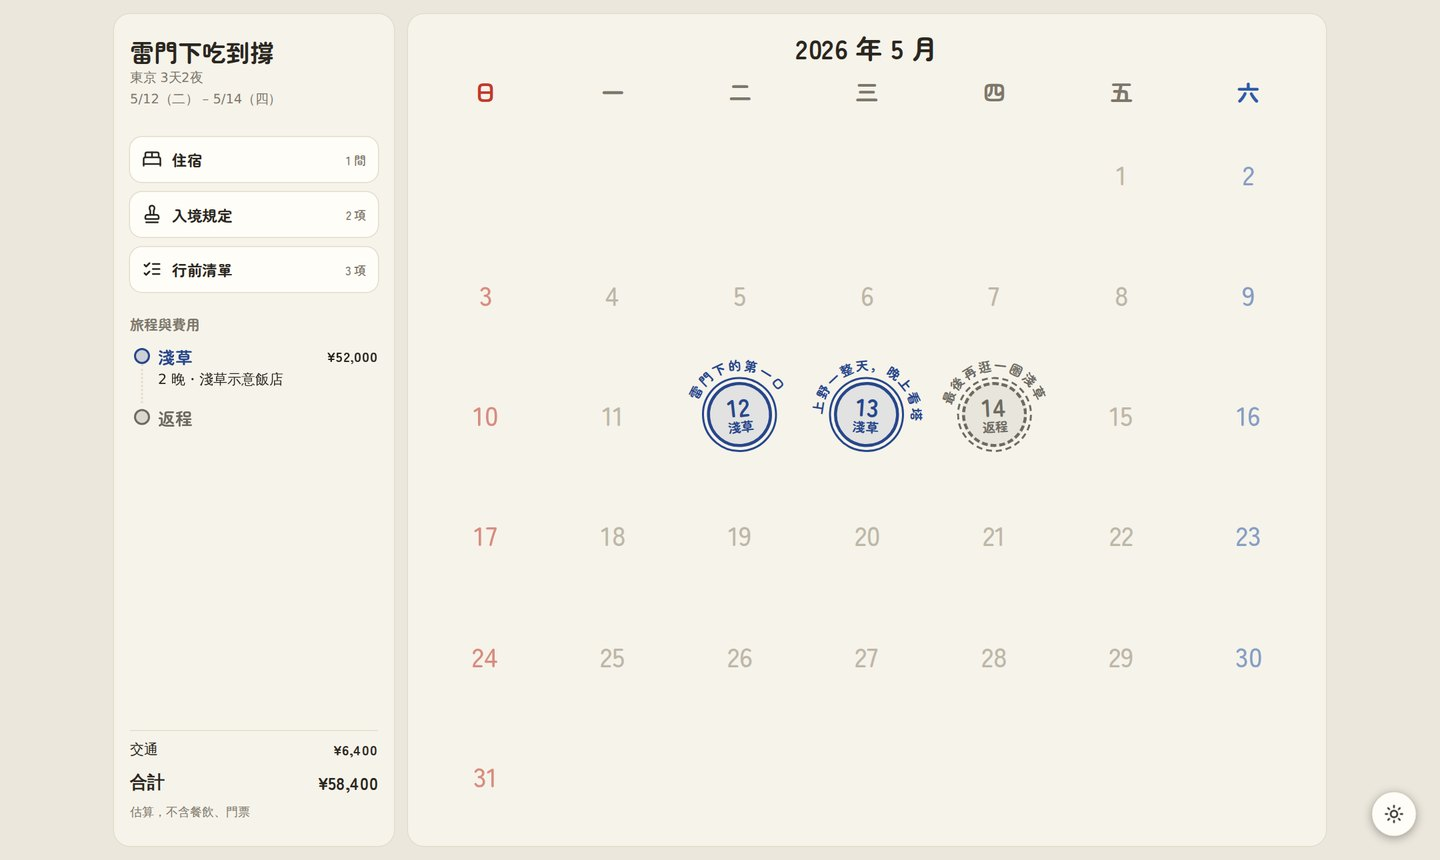
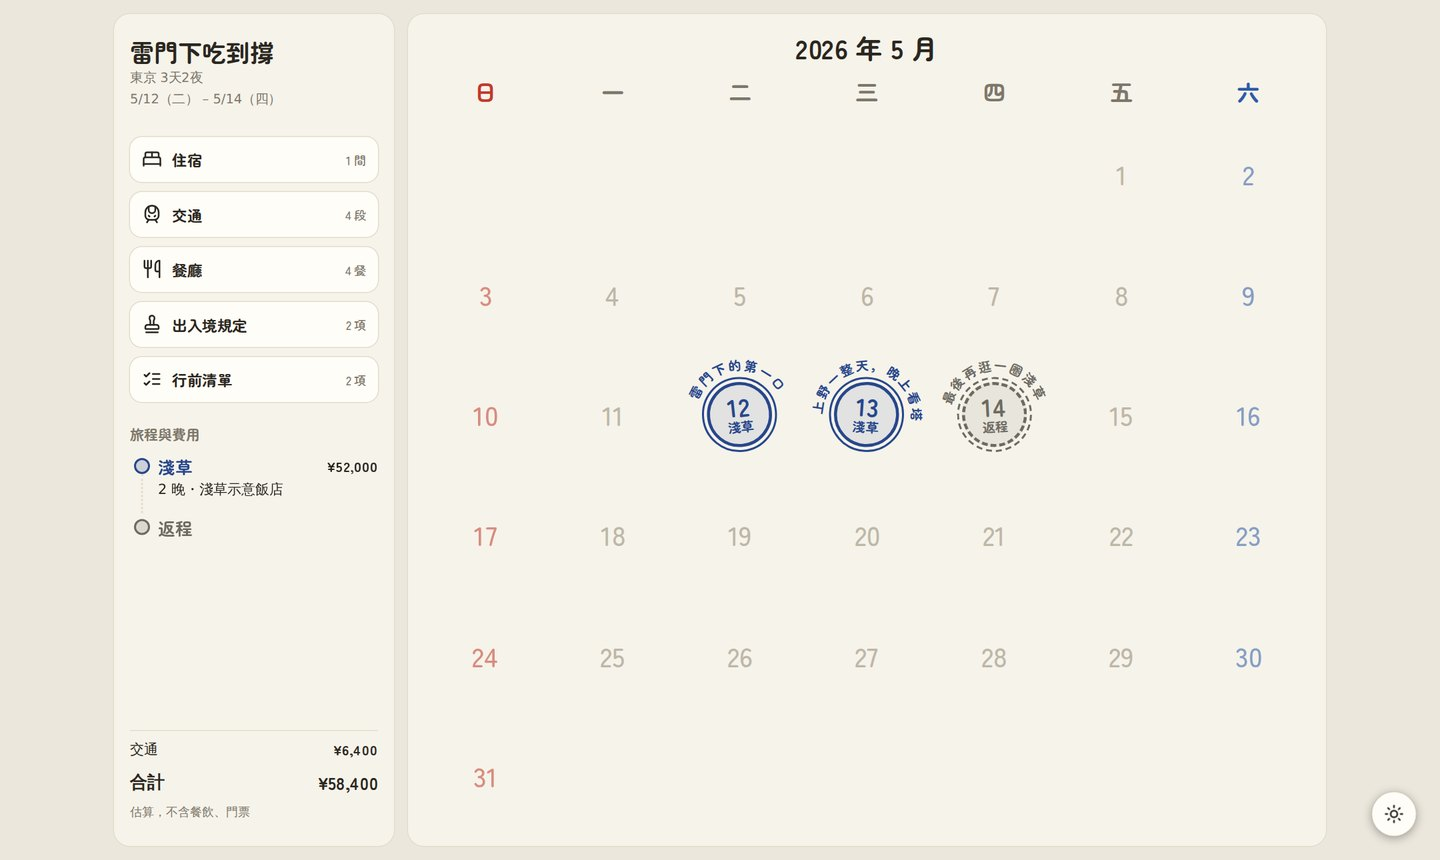
release(v3.1.0): reservation info
Claude-Session: https://claude.ai/code/session_018PWF1r5weoKGKuKETv3AUs

diff --git a/docs/images/readme/demo_trip.py b/docs/images/readme/demo_trip.py
@@ -60,6 +60,12 @@ POIS = [
     poi("skytree", "東京スカイツリー", "東京晴空塔", "sight", 35.7101, 139.8107,
         {"close": "22:00", "last_entry": "21:00", "typical_visit_mins": 90, "as_of": "2026-04-01"},
         "押上", intro="高 634 m，天望甲板 350 m。", address="東京都墨田区押上1-1-2"),
+    poi("izakaya", "浅草サンプル居酒屋", "淺草示意居酒屋", "food", 35.7125, 139.7960,
+        {"close": "23:00", "last_order": "22:30", "typical_visit_mins": 90, "as_of": "2026-04-01"},
+        "淺草", intro="示意的居酒屋：今晚自己找，這家只是推薦。"),
+    poi("kappo", "押上サンプル割烹", "押上示意割烹", "food", 35.7098, 139.8120,
+        {"close": "22:00", "last_order": "21:00", "typical_visit_mins": 90, "as_of": "2026-04-01"},
+        "押上", intro="示意的割烹：會席套餐，已訂位。"),
     poi("asakusa-tic", "浅草文化観光センター", "淺草文化觀光中心", "sight", 35.7107, 139.7966,
         {"close": "20:00", "last_entry": "19:45", "typical_visit_mins": 30, "as_of": "2026-04-01"},
         "淺草", intro="8 樓免費展望台，看得到晴空塔與仲見世。"),
@@ -91,13 +97,17 @@ def itinerary():
         {"date": "2026-05-12", "lodging": "demo-hotel", "theme": "雷門下的第一口", "theme_refs": ["senso-ji"],
          "theme_candidates": six(["雷門下的第一口", "燈籠在等，人形燒在燙", "淺草寺會不會太熱鬧？",
                                   "逛完本堂才想起要吃", "雷門、香爐、人形燒", "仲見世，在數我們的零錢"], "senso-ji"),
-         "rows": [_mv("rail", 20, 45, basis="sourced", text="京急線直通淺草線",
-                      source_url="https://rail.example/keikyu", **{"from": "羽田空港"}),
+         "rows": [dict(_mv("flight", 2190, 190, basis="sourced", text="示意航空 SA 101",
+                           source_url="https://air.example/sa101"), leg_index=0, time="08:50"),
+                  _mv("rail", 20, 45, basis="sourced", text="京急線直通淺草線",
+                      source_url="https://rail.example/keikyu", **{"from": "羽田空港", "to": "淺草"}),
                   {"slot": "lodging", "time": "13:30", "poi_id": "demo-hotel", "text": "放行李"},
                   _mv("walk", 0.5, 8),
                   _stop("visit", "14:00", "senso-ji", "雷門 → 本堂，抽一支籤"),
                   _mv("walk", 0.4, 6),
                   _stop("meal", "15:30", "nakamise", "人形燒、炸饅頭當下午茶"),
+                  _mv("walk", 0.3, 5),
+                  _stop("meal", "18:30", "izakaya", "居酒屋晚餐"),
                   _mv("walk", 0.3, 5, text="走回飯店")]},
         {"date": "2026-05-13", "lodging": "demo-hotel", "theme": "上野一整天，晚上看塔",
          "theme_refs": ["tnm", "skytree"],
@@ -113,6 +123,8 @@ def itinerary():
                   _stop("meal", "13:00", "ameyoko", "海鮮丼午餐"),
                   _mv("rail", 6, 25, basis="sourced", text="銀座線＋淺草線到押上", source_url="https://rail.example/oshiage"),
                   _stop("visit", "17:00", "skytree", "看夕陽轉夜景"),
+                  _mv("walk", 0.4, 6),
+                  _stop("meal", "19:00", "kappo", "會席晚餐"),
                   _mv("taxi", 2.5, 10, text="計程車回飯店")]},
         {"date": "2026-05-14", "theme": "最後再逛一圈淺草", "theme_refs": ["nakamise"],
          "theme_candidates": six(["最後再逛一圈淺草", "早上的門，最後的燒", "人形燒還買得下嗎？",
@@ -120,18 +132,53 @@ def itinerary():
          "rows": [_mv("walk", 0.3, 5),
                   _stop("meal", "09:30", "nakamise", "早上的仲見世，買伴手禮"),
                   _mv("rail", 20, 45, basis="sourced", text="淺草線直通京急線",
-                      source_url="https://rail.example/keikyu", to="羽田空港")]},
+                      source_url="https://rail.example/keikyu", **{"from": "淺草", "to": "羽田空港"}),
+                  dict(_mv("flight", 2190, 170, basis="sourced", text="示意航空 SA 102",
+                           source_url="https://air.example/sa102"), leg_index=1, time="14:30")]},
     ]
     for d in days:
         _closing(d["rows"], by_id)
     checklist = [
-        {"kind": "預約", "task": "晴空塔線上預約時段票", "due": "2026-05-05", "due_is_hard": True,
+        {"kind": "預約", "task": "晴空塔線上預約時段票", "due": "2026-05-05", "due_is_hard": True, "poi_id": "skytree",
          "origin": "D2・5/13", "detail": "日落前後的時段最先賣完。",
          "links": [{"label": "tokyo-skytree.jp", "url": "https://www.tokyo-skytree.jp/"}]},
         {"kind": "出發前確認", "task": "確認東京國立博物館當天開館", "due": "出發前"},
         {"kind": "打包", "task": "不帶任何肉製品入境"},
     ]
     return {"title": "東京三天", "checklist": checklist, "days": days}
+
+
+# the two flights: home legs with local depart / arrive (made-up flight numbers)
+LEGS = {"legs": [
+    {"from": "桃園機場", "to": "羽田空港", "kind": "home", "mode": "flight", "status": "ok", "service": "示意航空 SA 101",
+     "depart": "08:50", "arrive": "13:00", "duration_mins": 190, "km": 2190,
+     "sources": [{"url": "https://air.example/sa101", "official": True}]},
+    {"from": "羽田空港", "to": "桃園機場", "kind": "home", "mode": "flight", "status": "ok", "service": "示意航空 SA 102",
+     "depart": "14:30", "arrive": "17:20", "duration_mins": 170, "km": 2190,
+     "sources": [{"url": "https://air.example/sa102", "official": True}]},
+]}
+
+# the traveller's bookings (made-up numbers): every renderer masks them
+RESERVATIONS = {"reservations": [
+    {"date": "2026-05-12", "from": "桃園機場", "to": "羽田空港", "status": "booked", "ref": "K7Q2PX",
+     "details": [{"label": "座位", "value": "32A・32B・32C"}, {"label": "行李", "value": "每人託運 23 kg"}]},
+    {"date": "2026-05-12", "from": "羽田空港", "to": "淺草", "status": "none",
+     "details": [{"label": "付款", "value": "刷 IC 卡，不用買票"}]},
+    {"date": "2026-05-12", "lodging": "demo-hotel", "status": "booked", "ref": "HB48213907",
+     "details": [{"label": "入住", "value": "15:00 起"}, {"label": "房型", "value": "三人房，含早餐"}]},
+    {"date": "2026-05-12", "poi_id": "nakamise", "time": "15:30", "status": "none"},
+    {"date": "2026-05-12", "poi_id": "izakaya", "status": "self",
+     "details": [{"label": "備註", "value": "這餐自己決定吃哪家，這家是推薦，換別家也可以"}]},
+    {"date": "2026-05-13", "poi_id": "ameyoko", "status": "none"},
+    {"date": "2026-05-13", "poi_id": "skytree", "status": "booked", "ref": "TK7730X1",
+     "details": [{"label": "時段", "value": "17:00 入場"}, {"label": "張數", "value": "3 張"}]},
+    {"date": "2026-05-13", "poi_id": "kappo", "status": "booked", "ref": "RSV-58213",
+     "details": [{"label": "人數", "value": "3 位"}, {"label": "套餐", "value": "會席套餐"},
+                 {"label": "取消", "value": "5/10 前免費取消"}]},
+    {"date": "2026-05-14", "from": "淺草", "to": "羽田空港", "status": "none"},
+    {"date": "2026-05-14", "from": "羽田空港", "to": "桃園機場", "status": "booked", "ref": "M3R8TZ",
+     "details": [{"label": "座位", "value": "41A・41B・41C"}]},
+]}
 
 
 def brief():
@@ -154,7 +201,7 @@ def render(root):
     t, w = M.build_full_trip(root, slug="2026-05-tokyo-demo")
     itin, b = itinerary(), brief()
     for name, doc in (("trip-brief.yaml", b), ("verified-pois.yaml", {"pois": POIS}),
-                      ("accommodations.yaml", ACC), ("legs.yaml", {"legs": []}),
+                      ("accommodations.yaml", ACC), ("legs.yaml", LEGS), ("reservations.yaml", RESERVATIONS),
                       ("itinerary.yaml", itin), ("cost.yaml", COST)):
         M.write_artifact(artifact_path(t, name), doc)
     maps = build(t, w)                                     # real OSM tiles, cached, 1 req/s
@@ -166,7 +213,7 @@ def render(root):
                      load_media(artifact_path(t, "verified-pois-media.yaml")))
     reader = root / "reader.html"
     reader.write_text(render_reader(itin, pm, brief=b, accommodations=ACC, advisory=R.ADVISORY,
-                                    legs={"legs": []}, maps=maps, cost=COST), encoding="utf-8")
+                                    legs=LEGS, maps=maps, cost=COST, reservations=RESERVATIONS), encoding="utf-8")
     picker = root / "picker.html"
     picker.write_text(picker_page(itin, b, ACC), encoding="utf-8")
     return reader, picker, lock(root, reader)

diff --git a/tests/test_e2e_reservations.py b/tests/test_e2e_reservations.py
@@ -1,0 +1,56 @@
+"""End-to-end closure for reservations (pre-ship gate step 7): one made-up trip with every
+kind of booking runs through the shipped gate, both renderers and both export gates, then a
+re-plan drops a booked dinner and the gate stops it -- with reservations.yaml untouched."""
+
+import yaml
+from bs4 import BeautifulSoup
+
+from scripts.export_gate import run_export_gate, run_html_gate
+from scripts.gate import run_gate
+from scripts.orchestration import route_gate_failures
+from scripts.render.html_page import render_html_page
+from scripts.render.markdown import render_markdown_page
+from tests import mech_fixtures as M
+from tests import reservation_fixture as F
+
+SKY = {"kind": "預約", "task": "晴空塔線上預約時段票", "due": "2026-05-05", "due_is_hard": True, "poi_id": "skytree"}
+
+
+def _trip():
+    itin = F.itinerary()
+    itin["checklist"] = [SKY]
+    return itin
+
+
+def test_every_defect_closes_on_one_trip():
+    itin, pm, legs, res = _trip(), F.poi_map(), F.legs(), F.reservations()
+    md = render_markdown_page(itin, pm, legs=legs, reservations=res)
+    html = render_html_page(itin, pm, legs=legs, reservations=res)
+    pois = list(pm.values())
+    assert run_export_gate(md, pois, min_days=3, reservations=res)["failures"] == []
+    assert run_html_gate(html, pois, min_days=3, reservations=res)["failures"] == []
+    s = BeautifulSoup(html, "html.parser")
+    assert [t["for"] for t in s.select("section.page.home label.tile")] == [
+        "pg-lodging", "pg-transport", "pg-meals", "pg-advisory", "pg-checklist"]
+    assert "••••PX" in s.select_one('section[data-pg="transport"]').get_text()
+    assert [b.get_text() for b in s.select('section[data-pg="meals"] .bk')] == ["自理", "還要訂", "已訂"]
+    cl = s.select_one('section[data-pg="checklist"]').get_text()
+    assert "晴空塔線上預約時段票" not in cl and "訂上野示意洋食 13:00，3 位" in cl
+    assert "## 交通" in md and "## 餐廳" in md and "••••3907" in md
+    assert not any(ref in md + html for ref in F.REFS)
+
+
+def test_dropping_a_booked_place_stops_and_leaves_the_file_alone(tmp_path):
+    res = F.reservations()
+    path = tmp_path / "reservations.yaml"
+    path.write_text(yaml.safe_dump(res, allow_unicode=True), encoding="utf-8")
+    before = path.read_bytes()
+    itin = _trip()
+    itin["days"][1]["rows"] = [r for r in itin["days"][1]["rows"] if r.get("poi_id") != "kappo"]
+
+    r = run_gate(list(F.poi_map().values()), itin, advisory={"items": []},
+                 **M.rederive_kwargs(legs=F.legs()), reservations=yaml.safe_load(path.read_text(encoding="utf-8")))
+    dropped = [f for f in r["failures"] if f.startswith("reservation has no row")]
+    assert dropped == ["reservation has no row: 2026-05-13 押上示意割烹"]
+    assert route_gate_failures(dropped) == "tripwork:record-reservation"
+    assert path.read_bytes() == before

diff --git a/CHANGELOG.md b/CHANGELOG.md
@@ -1,5 +1,54 @@
 # Changelog
 
+## 3.1.0 — bookings in the reader: 交通 and 餐廳 screens, booking status, masked numbers
+
+### Added
+
+- **`reservations.yaml`, the traveller's own bookings** (`schemas/reservations.schema.json`).
+  A flight, a train, a meal, a stay or a ticket, each with a status — 已訂 / 還要訂 / 不用訂 /
+  自理 — its booking number and the details the family needs on the road (座位, 人數, 取消期限,
+  入住). It is written only by the new skill **`record-reservation`** (paste the confirmation,
+  or say "訂好了"), never by synthesis, so re-planning cannot drop a booking silently. Every
+  entry is matched to the plan by date and place (`scripts/reservation.py::match`); one that
+  matches no row any more is an itinerary-gate failure that routes to `record-reservation`,
+  which stops and asks (`booked_place_dropped`): put it back, or cancel the booking.
+- **The reader's home has five tiles**: 住宿, **交通**, **餐廳**, 出入境規定, 行前清單. On the phone the
+  three used on the road keep the tall tile and 出入境規定 / 行前清單 take the desktop's bar, so the
+  home still fits one screen; when it is still short, the 旅程與費用 card's stay list scrolls inside
+  it. 交通 and 餐廳 list the reserved moves and meals by
+  date, each with its status pill; opening one shows the details. A tile shows 「・N 待訂」
+  while something is still to book.
+- **On the day page**: a meal left to the traveller (自理) draws in the 選項 green with a 建議
+  tag, so it no longer reads as a fixed booking; a booked or to-book stop shows a 訂位 line when
+  opened (tickets included). The 住宿 screen shows a stay's booking.
+- **The md deliverable** gains 「## 交通」 and 「## 餐廳」 (bullet lists), and a stay's or a
+  ticket's booking at the end of its line.
+- **Booking numbers are masked everywhere**: at most the last four characters, never fewer than
+  four hidden (a 6-character PNR shows two: `••••PX`). Export-gate fails any deliverable that
+  shows more (`no_full_reservation_number`, non-retryable: it is a plugin defect).
+- **Flights as home legs**: a flight leg carries its local arrival time `arrive`, required by
+  the itinerary gate (`flight_legs_have_arrive`); depart + duration would land in the departure
+  time zone.
+
+### Changed
+
+- **「入境規定」 is 「出入境規定」** on the home tile, its screen and the README.
+- **The 行前清單 hides a 預約 line once that place or leg is booked**, and adds one for a booking
+  still to make (derived at render time, never written back). A 預約 item may carry `poi_id` /
+  `leg_index` to say what it is for; an older line without them is matched by its due date.
+  A booked place also satisfies its `opens_at` reminder in the gate.
+- **The approximate-location disclosures fold into one line**: 「N 個地點的地圖只標到區域中心」
+  with the places named once, in the reader (its detail) and the md, instead of one line per
+  place.
+
+### Migration
+
+- Nothing to do for an existing trip: without `reservations.yaml` the two new screens are empty
+  and everything else renders as before (apart from the one folded location line). To show
+  bookings, paste the confirmations to the agent.
+
+Tests: 2301 passed, 2 skipped in CI (the two consumer-workspace checks skip there); with the consumer workspace, 2303 passed and the privacy check passes. Browser suite: 601 passed (Chromium and WebKit).
+
 ## 3.0.2 — main is protected: `test` and `interaction` must pass on an up-to-date branch
 
 ### Changed
